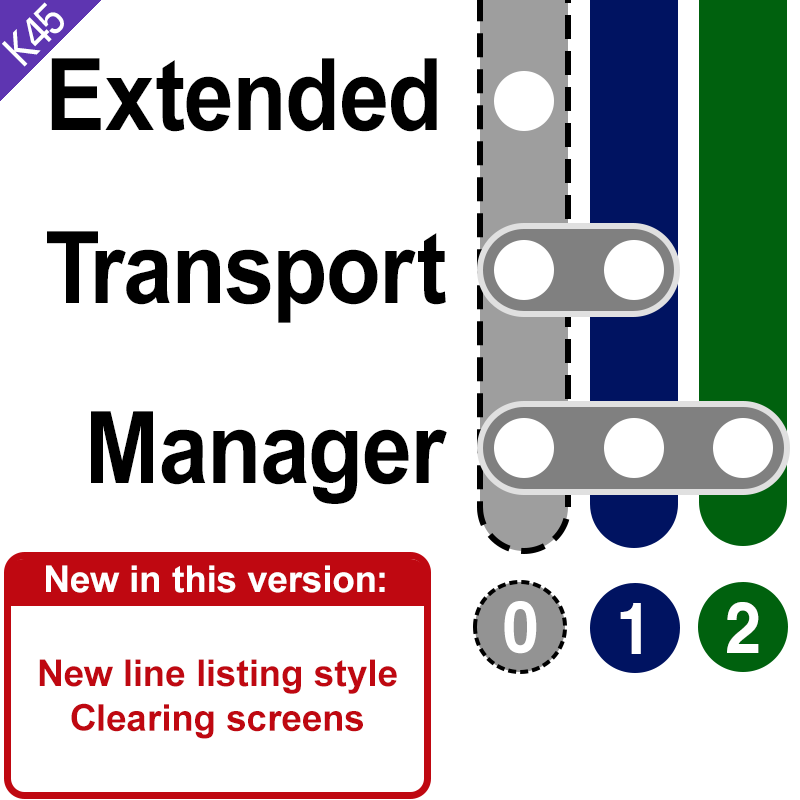
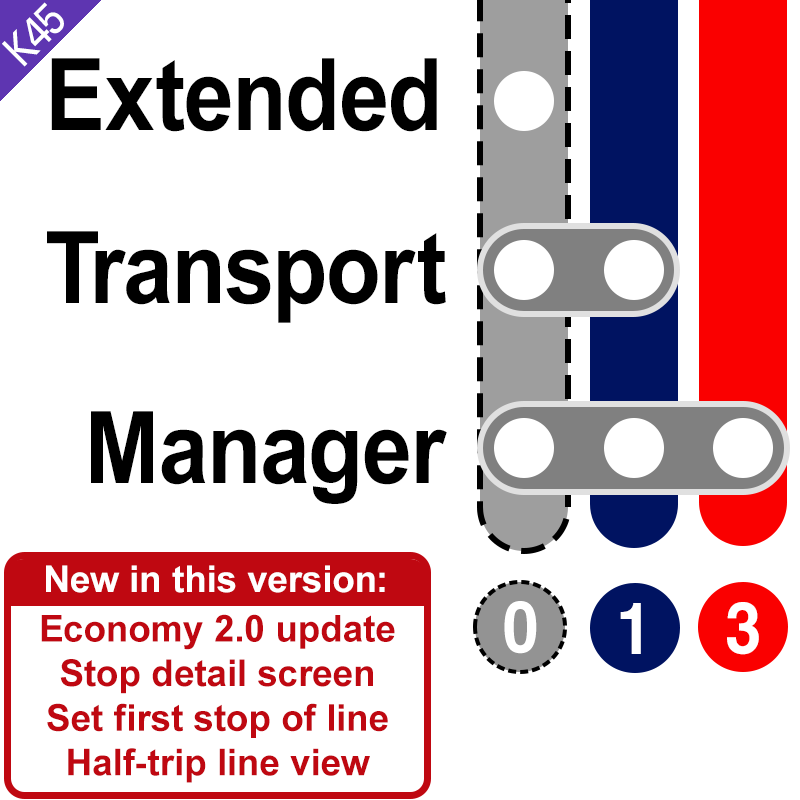
Initial implementation of the stop information screen

diff --git a/_Frontends/UI/main/src/components/lineListing/LineDetailCmp.tsx b/_Frontends/UI/main/src/components/lineListing/LineDetailCmp.tsx
@@ -61,10 +61,14 @@ export default class LineDetailCmp extends Component<Props, State> {
     constructor(props: any) {
         super(props);
         this.state = {
-
             currentTab: 0,
             measureUnit: UnitSystem.Metric
         }
+    }
+
+    private stopUpdating: boolean = false;
+    private updateViewData() {
+        this.reloadData(true).then(() => setTimeout(() => !this.stopUpdating && this.updateViewData(), 3000))
     }
 
     componentDidMount() {
@@ -78,15 +82,16 @@ export default class LineDetailCmp extends Component<Props, State> {
                         ...this.enrichVehicleInfo(x, details.Stops, details.LineData.length)
                     }
                 })
-                details.Stops = details.Stops.map((x, _, arr) => {
+                details.Stops = details.Stops.map((x, i, arr) => {
                     return {
                         ...x,
-                        ...this.enrichStopInfo(x, arr, details.Vehicles, details.LineData)
+                        ...this.enrichStopInfo(i, x, arr, details.Vehicles, details.LineData)
                     }
                 })
                 this.setState({
                     lineDetails: details,
-                    isLineSimetric: checkSimetry(details.Stops)
+                    isLineSimetric: checkSimetry(details.Stops),
+                    currentStopSelected: this.state.currentStopSelected ? details.Stops.find(x => x.entity.Index == this.state.currentStopSelected.entity.Index) : undefined
                 }, () => this.reloadData());
             });
 
@@ -98,15 +103,16 @@ export default class LineDetailCmp extends Component<Props, State> {
                 this.reloadData();
             });
         })
-        this.reloadData(true);
+        this.updateViewData();
     }
-    enrichStopInfo(station: StationData, allStations: StationData[], vehicles: VehicleData[], lineData: LineData): Partial<StationData> {
+    enrichStopInfo(index: number, station: StationData, allStations: StationData[], vehicles: VehicleData[], lineData: LineData): Partial<StationData> {
         const arrivingVehicle = vehicles.length == 0 ? [] : vehicles.map(x => [x.position > station.position ? x.position - 1 : x.position, x] as [number, VehicleData]).sort((a, b) => b[0] - a[0])[0]
 
         return {
             arrivingVehicle: arrivingVehicle[1],
             arrivingVehicleDistance: arrivingVehicle ? (station.position - arrivingVehicle[0]) * lineData.length : undefined,
             arrivingVehicleStops: arrivingVehicle ? allStations.map(x => x.position >= station.position ? x.position - 1 : x.position).filter(x => x > arrivingVehicle[0]).length : undefined,
+            index
         }
     }
     enrichVehicleInfo(vehicle: VehicleData, stations: StationData[], lineLength: number): Partial<VehicleData> {
@@ -123,6 +129,7 @@ export default class LineDetailCmp extends Component<Props, State> {
         }
     }
     componentWillUnmount(): void {
+        this.stopUpdating = true;
         engine.off("k45::xtm.lineViewer.getRouteDetail->");
         engine.off("k45::xtm.common.onMeasureUnitsChanged", this.measureCallback);
         engine.off("k45::xtm.lineViewer.getCityLines->!");
@@ -148,10 +155,13 @@ export default class LineDetailCmp extends Component<Props, State> {
         const lineDetails = this.state.lineDetails;
         if (!lineDetails) return null;
         const lineCommonData = lineDetails?.LineData;
-        const subtitle = !lineDetails ? undefined : Object.values(lineDetails.Stops.reduce((p, n) => {
-            p[n.district.Index] = n
+        const subtitle = !lineDetails ? undefined : Object.values(lineDetails.Stops
+            .reduce((p, n) => {
+            p[n.district.Index] ??= n
             return p;
         }, {} as Record<number, StationData>))
+            .map(x => x)
+            .sort((a, b) => a.index - b.index)
             .map(x => DistrictService.getEffectiveDistrictName(x)).join(" - ");
 
         const componentsMapViewer: Record<MapViewerTabsNames, () => JSX.Element> = {
@@ -192,27 +202,7 @@ export default class LineDetailCmp extends Component<Props, State> {
                     <Cs2CheckboxWithLine isChecked={() => this.props.mapViewOptions.useWhiteBackground} title={translate("lineViewer.useWhiteBackgroundLbl")} onValueToggle={(x) => this.toggleWhiteBG(x)} />
                     <Cs2CheckboxWithLine isChecked={() => this.props.mapViewOptions.useHalfTripIfSimetric} title={translate("lineViewer.showHalfTripIfSimmetric")} onValueToggle={(x) => this.toggleUseHalfTripIfSimetric(x)} />
                 </DefaultPanelScreen>,
-            [MapViewerTabsNames.StopInfo]: () => <>
-                <DefaultPanelScreen title={nameToString(this.state.currentStopSelected?.name)} isSubScreen={true} buttonsRowContent={<>
-                    {
-                        this.state.lineDetails?.Stops[0]?.entity.Index == this.state.currentStopSelected?.entity.Index
-                            ? <button className="darkestBtn" disabled>{translate("lineViewer.alreadyFirstStop")}</button>
-                            : <button className="neutralBtn" onClick={() => this.setSelectedAsFirstStop()}>{translate("lineViewer.setAsFirstStop")}</button>
-                    }
-                    {this.state.currentStopSelected?.parent?.Index
-                        ? <button className="neutralBtn" onClick={() => LineManagementService.selectEntity(this.state.currentStopSelected.parent)}>{translate("lineViewer.selectBuilding")}</button>
-                        : <button className="darkestBtn">{translate("lineViewer.notABuilding")}</button>
-                    }
-                    <button className="neutralBtn" onClick={() => LineManagementService.selectEntity(this.state.currentStopSelected.entity)}>{translate("lineViewer.selectStop")}</button>
-                    <button className="neutralBtn" onClick={() => LineManagementService.focusToEntity(this.state.currentStopSelected.entity)}>{translate("lineViewer.goToStop")}</button>
-
-
-
-                </>}>
-                    <Cs2FormLine title={"Coming soon!"} />
-                    {/* <img src="coui://cctv.xtm.k45/" />*/}
-                </DefaultPanelScreen>
-            </>,
+            [MapViewerTabsNames.StopInfo]: this.stopInfo,
             [MapViewerTabsNames.VehicleInfo]: () => <></>,
             [MapViewerTabsNames.Debug]: () => <>{JSON.stringify(this.state.lineDetails ?? "LOADING", null, 2)}</>
         }
@@ -227,9 +217,10 @@ export default class LineDetailCmp extends Component<Props, State> {
                     setSelection={(x) => this.setSelection(x)}
                     onSelectStop={(x) => this.onStopSelected(x)}
                     simetricLine={this.state.isLineSimetric}
+                    currentStopSelected={this.state.currentStopSelected}
                 />
                 <div className="lineViewContent">
-                    <Tabs selectedIndex={this.state.currentTab} onSelect={x => this.state.currentTab != x && this.setState({ currentTab: x })}>
+                    <Tabs selectedIndex={this.state.currentTab} onSelect={x => this.state.currentTab != x && this.setState({ currentTab: x, currentStopSelected: undefined })}>
                         <TabList id="sideNav" >
                             {tabsOrder.map((x, i) => !x ? <div className="space" key={i}></div> : <Tab key={i} disabled={!clickableTabs.includes(x)}>{translate("lineViewer." + x)}</Tab>)}
                         </TabList>
@@ -285,6 +276,84 @@ export default class LineDetailCmp extends Component<Props, State> {
         this.props.setMapViewOptions({ ...this.props.mapViewOptions, showVehicles: x, showIntegrations: this.props.mapViewOptions.showIntegrations && !x });
     }
 
+
+
+    private stopInfo = () => {
+        var station = this.state.currentStopSelected;
+        if (!station) return;
+
+        const isSimetric = checkSimetry(this.state.lineDetails.Stops);
+        const halfTripIdx = this.state.lineDetails.Stops.length / 2
+        const hasInverseStop = isSimetric && station.index != 0 && station.index != halfTripIdx
+        let inverseStop: StationData;
+        if (hasInverseStop) {
+            const delta = this.state.lineDetails.Stops.length - station.index;
+            inverseStop = this.state.lineDetails.Stops[delta]
+        }
+
+        let passengerValueFmt: string;
+        if (station.isCargo) {
+            let val = kilogramsTo(station.cargo, this.state.measureUnit);
+            passengerValueFmt = replaceArgs(engine.translate(val[0]), { ...val[1], SIGN: "" }).trim();
+        } else {
+            passengerValueFmt = station.cargo.toFixed();
+        }
+        let nextVehicleDistanceFmt: string;
+        let stopsYetToPassText: string;
+        if (station.arrivingVehicle) {
+            let val = metersTo(station.arrivingVehicleDistance, this.state.measureUnit);
+            nextVehicleDistanceFmt = replaceArgs(engine.translate(val[0]), { ...val[1], SIGN: "" }).trim();
+            stopsYetToPassText = station.arrivingVehicle
+                ? station.arrivingVehicleStops
+                    ? replaceArgs(translate("lineStationDetail.nextVehicleStopsRemaning"), { stops: station.arrivingVehicleStops.toFixed() })
+                    : translate("lineStationDetail.nextVehicleIncoming")
+                : "";
+        }
+        const fullStationTitle = nameToString(station.name) + (
+            isSimetric
+                ? " " + replaceArgs(translate("lineStationDetail.platformDestinationFmt"), { stationName: nameToString(this.state.lineDetails.Stops[station.index < halfTripIdx ? halfTripIdx : 0].name) })
+                : ""
+        )
+        return <>
+            <DefaultPanelScreen title={fullStationTitle} isSubScreen={true} buttonsRowContent={<>
+                {this.state.lineDetails?.Stops[0]?.entity.Index == station.entity.Index
+                    ? <button className="darkestBtn" disabled>{translate("lineStationDetail.alreadyFirstStop")}</button>
+                    : <button className="neutralBtn" onClick={() => this.setSelectedAsFirstStop()}>{translate("lineStationDetail.setAsFirstStop")}</button>}
+                {station.parent?.Index
+                    ? <button className="neutralBtn" onClick={() => LineManagementService.selectEntity(station.parent)}>{translate("lineStationDetail.selectBuilding")}</button>
+                    : <button className="darkestBtn">{translate("lineStationDetail.notABuilding")}</button>}
+                <button className="neutralBtn" onClick={() => LineManagementService.selectEntity(station.entity)}>{translate("lineStationDetail.selectStop")}</button>
+                <button className="neutralBtn" onClick={() => LineManagementService.focusToEntity(station.entity)}>{translate("lineStationDetail.goToStop")}</button>
+                {
+                    hasInverseStop
+                        ? <>
+                            <div style={{ display: "flex", flexGrow: 5 }}></div>
+                            <button className="neutralBtn" onClick={() => this.onStopSelected(inverseStop)}>{translate("lineStationDetail.seeInverseStop")}</button>
+                        </>
+                        : <></>
+                }
+            </>}>
+                <Cs2FormLine title={translate(station.isCargo ? "lineStationDetail.cargoWaiting" : "lineStationDetail.passengerWaiting")}>{passengerValueFmt}</Cs2FormLine>
+                <Cs2FormLine title={translate("lineStationDetail.nextVehicleInformation")}>{
+                    this.state.lineDetails.LineData.vehicles == 0
+                        ? <span style={{ "color": "var(--negativeColor)" }}>{translate("lineStationDetail.noNextVehicleData")}</span>
+                        :
+                        <div style={{ display: "flex", flexDirection: "row", alignItems: "stretch" }}>
+                            <div style={{ display: "flex", flexDirection: "column", alignItems: "flex-end", justifyContent: "space-around", paddingRight: "5px" }}>
+                                <div>{nameToString(station.arrivingVehicle.name) + " - " + station.arrivingVehicle.entity.Index}</div>
+                                <div>{nextVehicleDistanceFmt}</div>
+                                <div>{stopsYetToPassText}</div>
+                            </div>
+                            <div>
+                                <button className="neutralBtn" onClick={() => LineManagementService.focusToEntity(station.arrivingVehicle.entity)} >{translate("lineStationDetail.followVehicle")}</button>
+                                <button className="neutralBtn" onClick={() => LineManagementService.selectEntity(station.arrivingVehicle.entity)} >{translate("lineStationDetail.viewDetailsGame")}</button>
+                            </div>
+                        </div>
+                }</Cs2FormLine>
+                {/* <img src="coui://cctv.xtm.k45/" />*/}
+            </DefaultPanelScreen >
+        </>;
+    }
 }
 
 
@@ -293,8 +362,7 @@ function checkSimetry(stops: StationData[]): boolean {
     if (length % 1 == 1) return false;
     const otherSideIdx = stops.length / 2 + 1
     for (let i = 1; i < otherSideIdx; i++) {
-        if (stops[i].parent.Index != stops[length - i].parent.Index) return false;
+        if (!stops[i].parent.Index || stops[i].parent.Index != stops[length - i].parent.Index) return false;
     }
     return true;
 }
-

diff --git a/_Frontends/UI/main/src/components/lineListing/containers/TlmViewerCmp.tsx b/_Frontends/UI/main/src/components/lineListing/containers/TlmViewerCmp.tsx
@@ -16,7 +16,8 @@ export class TlmViewerCmp extends Component<{
     setSelection: (line: Entity) => void;
     getLineById: (line: number) => LineData;
     onSelectStop: (entity: StationData) => void
-    simetricLine?: boolean
+    simetricLine?: boolean,
+    currentStopSelected?: StationData
 } & MapViewerOptions> {
 
     constructor(props) {
@@ -48,6 +49,7 @@ export class TlmViewerCmp extends Component<{
                                     <div className="integrationsRailing">
                                         {targetStops.map((station, i) => {
                                             return <StationIntegrationContainerCmp
+                                                isFaded={this.props.currentStopSelected && this.props.currentStopSelected.entity.Index != station.entity.Index && (!this.props.simetricLine || this.props.currentStopSelected.parent.Index != station.parent.Index)}
                                                 getLineById={(x) => this.props.getLineById(x)}
                                                 setSelection={(x) => this.props.setSelection(x)}
                                                 station={station}
@@ -60,6 +62,7 @@ export class TlmViewerCmp extends Component<{
                                             />
                                         })}
                                         {!showSimetricMode && <StationIntegrationContainerCmp
+                                            isFaded={this.props.currentStopSelected && this.props.currentStopSelected.entity.Index != targetStops[0].entity.Index && (!this.props.simetricLine || this.props.currentStopSelected.parent.Index != targetStops[0].parent.Index)}
                                             thisLineId={lineDetails.LineData.entity}
                                             getLineById={(x) => this.props.getLineById(x)}
                                             setSelection={(x) => this.props.setSelection(x)}
@@ -73,6 +76,8 @@ export class TlmViewerCmp extends Component<{
                                 <div className="stationRailing">
                                     {targetStops.map((station, i) => {
                                         return <StationContainerCmp
+                                            direction={this.props.currentStopSelected && showSimetricMode && this.props.currentStopSelected?.parent.Index == station.parent.Index ? this.props.currentStopSelected?.index < targetLenght ? 1 : -1 : 0}
+                                            isFaded={this.props.currentStopSelected && this.props.currentStopSelected.entity.Index != station.entity.Index && (!showSimetricMode || this.props.currentStopSelected.parent.Index != station.parent.Index)}
                                             station={station}
                                             vehicles={lineDetails.Vehicles}
                                             keyId={i}
@@ -83,6 +88,7 @@ export class TlmViewerCmp extends Component<{
                                         />
                                     })}
                                     {!showSimetricMode && <StationContainerCmp
+                                        isFaded={this.props.currentStopSelected && this.props.currentStopSelected.entity.Index != targetStops[0].entity.Index && (!showSimetricMode|| this.props.currentStopSelected.parent.Index != targetStops[0].parent.Index)}
                                         station={targetStops[0]}
                                         vehicles={lineDetails.Vehicles}
                                         keyId={-1}

diff --git a/_Frontends/UI/main/src/styles/TLM_LineDetail.scss b/_Frontends/UI/main/src/styles/TLM_LineDetail.scss
@@ -233,6 +233,10 @@
                 font-weight: bolder;
                 font-size: 21.000000rem;
                 transform: translateY(-50.000000%);
+
+                &.faded {
+                    opacity: 0.5;
+                }
             }
 
             .stationBullet {
@@ -247,6 +251,30 @@
                 display: block;
                 border-radius: 9999rem;
                 pointer-events: auto;
+
+                &.faded {
+                    opacity: 0.5;
+                }
+            }
+
+            .stationDirection {
+                position: absolute;
+                right: -20rem;
+                height: 16rem;
+                width: 16rem;
+                background: white;
+                border: 1rem solid black;
+                display: block;
+
+                &.up {
+                    clip-path: border-box polygon(nonzero, 50% 0%, 100% 100%, 0% 100%);
+                    top: 0%;
+                }
+
+                &.down {
+                    bottom: 0%;
+                    clip-path: border-box polygon(nonzero, 0% 0%, 50% 100%, 100% 0%);
+                }
             }
 
             .stationIntersections {
@@ -258,10 +286,18 @@
                 overflow-y: hidden;
                 white-space: nowrap;
                 padding: 12rem 12rem 0 0;
+
+                &.faded {
+                    opacity: 0.5;
+                }
             }
 
             .lineIntersection .formatContainer {
                 width: 47rem;
+
+                &.faded {
+                    opacity: 0.5;
+                }
             }
 
         }
@@ -302,6 +338,10 @@
             transform: translateY(-50%);
             --integrationLineColor: transparent;
             --integrationBackgroundImage: none;
+
+            &.faded {
+                opacity: 0.5;
+            }
 
             .integrationLineCutted {
                 position: absolute;
@@ -354,6 +394,7 @@
                 &.sz1 {
                     --scale-format: scale(.45);
                     --form-border-width: 3;
+
                     .formatContainer {
                         margin: -15rem;
                     }

diff --git a/_Frontends/UI/main/src/components/lineListing/containers/StationContainerCmp.tsx b/_Frontends/UI/main/src/components/lineListing/containers/StationContainerCmp.tsx
@@ -11,7 +11,9 @@ export class StationContainerCmp extends Component<{
     keyId: number;
     normalizedPosition: number;
     totalStationCount: number
-    onSelectStop: (entity: StationData) => void
+    onSelectStop: (entity: StationData) => void,
+    isFaded?: boolean
+    direction?: number
 }, { measureUnit?: UnitSystem; }> {
 
     constructor(props) {
@@ -73,8 +75,9 @@ export class StationContainerCmp extends Component<{
         const id = `linestation-${station.entity.Index}-${this.props.keyId}`
         return <div className="lineStationContainer" style={{ top: (100 * this.props.normalizedPosition) + "%", minHeight: (100 / this.props.totalStationCount) + "%" }}>
             <div className="lineStation row col-12 align-items-center">
-                <div className="stationName">{nameToString(station.name)}</div>
-                <div className="stationBullet" id={id} onClick={() => this.stopClicked(station)} />
+                <div className={["stationName", this.props.isFaded && "faded"].join(" ")}>{nameToString(station.name)}</div>
+                <div className={["stationBullet", this.props.isFaded && "faded"].join(" ")} id={id} onClick={() => this.stopClicked(station)} />
+                {!this.props.isFaded && !!this.props.direction && <div className={["stationDirection", this.props.direction > 0 ? "down" : "up"].join(" ")} />}
                 {this.generateTooltip()}
             </div>
         </div>;

diff --git a/_Frontends/UI/main/src/components/lineListing/containers/StationIntegrationContainerCmp.tsx b/_Frontends/UI/main/src/components/lineListing/containers/StationIntegrationContainerCmp.tsx
@@ -14,6 +14,7 @@ export class StationIntegrationContainerCmp extends Component<{
     keyId: number;
     normalizedPosition: number;
     totalStationCount: number
+    isFaded?: boolean
 }, { measureUnit?: UnitSystem; }> {
 
     constructor(props) {
@@ -46,7 +47,7 @@ export class StationIntegrationContainerCmp extends Component<{
             }, new Set<string>())]
         const stepEachColor = 100 / colors.length;
         return <div className="stationIntegrationContainer" style={{ top: (100 * this.props.normalizedPosition) + "%", minHeight: (100 / this.props.totalStationCount) + "%" }}       >
-            <div className="lineStation">
+            <div className={["lineStation", this.props.isFaded && "faded"].join(" ")}>
                 <div className="integrationLineCutted" style={colors.length == 1 || colors.length > 6 ? {
                     "--integrationLineColor": ColorUtils.getClampedColor(colors.length > 6 ? "#444444" : colors[0])
                 } as CSSProperties : {

diff --git a/_Frontends/UI/main/src/service/LineManagementService.ts b/_Frontends/UI/main/src/service/LineManagementService.ts
@@ -44,6 +44,7 @@ export type StationData = {
     arrivingVehicle?: VehicleData,
     arrivingVehicleDistance?: number,
     arrivingVehicleStops?: number,
+    index?: number
 };
 export type VehicleData = {
     readonly entity: Entity,

diff --git a/BelzontTLM/changelog.md b/BelzontTLM/changelog.md
@@ -2,8 +2,9 @@
 - Economy 2.0 update
 - New side tabs to navigate between mod screens
 - Added requirement to subscribe the Unified Icon Library
-- Added button to define a stop as first stop of a line (at the screen inside Line Details after clicking in a stop - Stop Information tab)
-- Also added buttons for: focus to stop, select stop and select building of the stop (if applicable)
+- Initial implementation of stop details screen when clicking in a stop of the map:
+	- Added button to define a stop as first stop of a line)
+	- Also added buttons for: focus to stop, select stop and select building of the stop (if applicable)
 - Added simetric view mode on line viewers for lines that are detected as simetric (like generally rail lines are)
   - NOTE: it detects based on stop buildings ownership, so custom station buildings stops (that not belongs to an asset) may not be detetected...
 - Added support to exporting palettes from city to a .hex file under `<Palettes Folder>/Exported` folder. You can share the file with other players.
